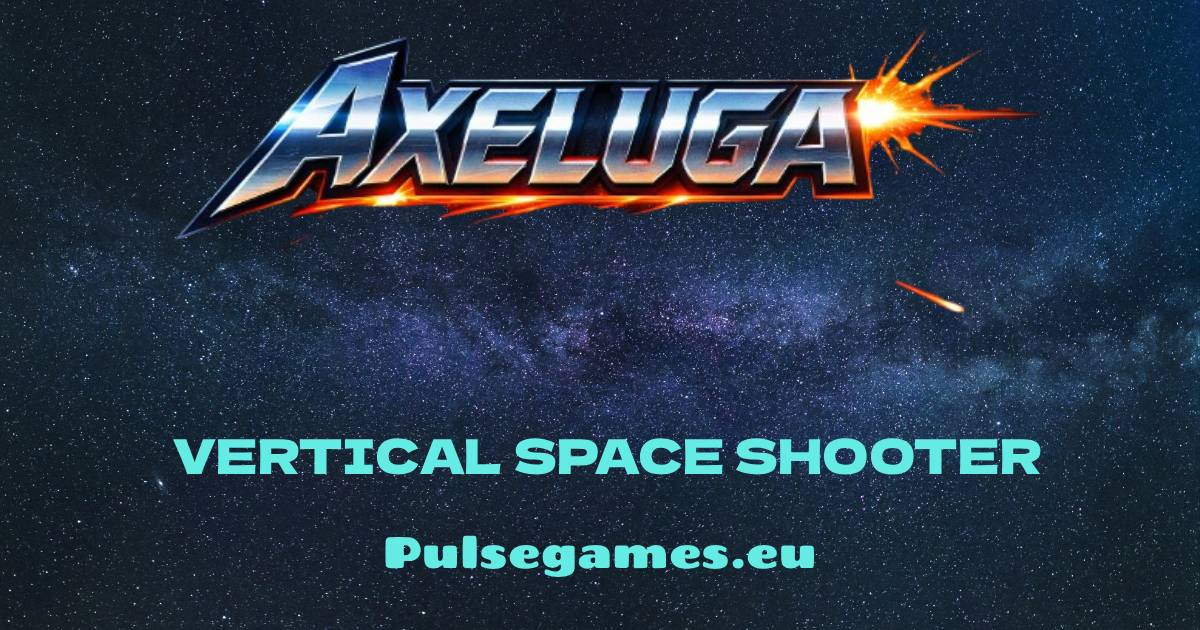
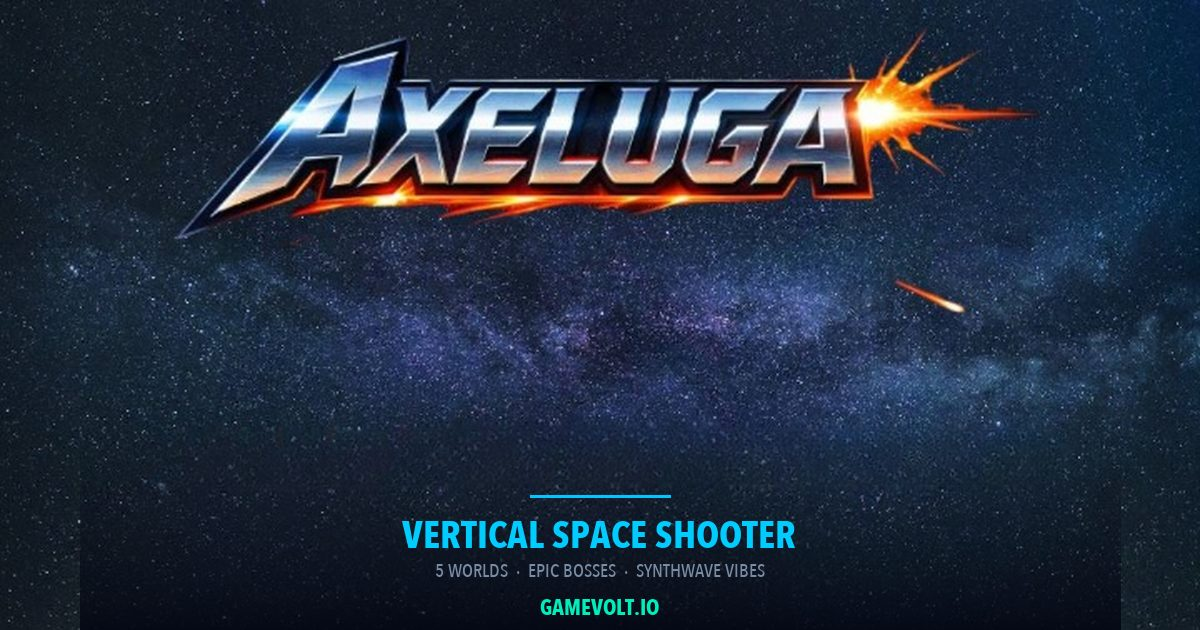
Update Axeluga OG image and meta tags, misc portal updates
- Axeluga og-image.jpg: resized to 1200x630, added gradient + tagline + GAMEVOLT.IO branding (139KB, was 506KB)
- Updated og:image, twitter:image, schema.org meta tags to use new og-image.jpg
- Portal OG image, HoverDash, and profile page updates

diff --git a/hoverdash/index.html b/hoverdash/index.html
@@ -162,20 +162,22 @@
   .trophy-card.unlocked.bronze{border-color:#cd7f3266;background:#cd7f3210}
   .trophy-card.unlocked.silver{border-color:#c0c0c066;background:#c0c0c010}
   .trophy-card.unlocked.gold{border-color:#ffd70066;background:#ffd70010}
+  .trophy-card.unlocked.platinum{border-color:#b4ffff66;background:#b4ffff0a}
   .trophy-card.locked{opacity:.45;filter:grayscale(.7)}
   .trophy-icon{font-size:26px;margin-bottom:4px}
   .trophy-name{font-size:10px;font-weight:700;color:#fff;letter-spacing:1px;margin-bottom:2px}
   .trophy-desc{font-size:9px;color:#889;line-height:1.3}
   .trophy-tier{font-size:9px;font-weight:700;letter-spacing:2px;text-transform:uppercase;margin-bottom:4px}
-  .trophy-tier.bronze{color:#cd7f32}.trophy-tier.silver{color:#c0c0c0}.trophy-tier.gold{color:#ffd700}
+  .trophy-tier.bronze{color:#cd7f32}.trophy-tier.silver{color:#c0c0c0}.trophy-tier.gold{color:#ffd700}.trophy-tier.platinum{color:#b4ffff}
   .trophy-progress{width:100%;height:3px;background:#ffffff0a;border-radius:2px;margin-top:6px;overflow:hidden}
   .trophy-pbar{height:100%;border-radius:2px;transition:width .4s ease}
-  .trophy-pbar.bronze{background:#cd7f32}.trophy-pbar.silver{background:#c0c0c0}.trophy-pbar.gold{background:#ffd700}
+  .trophy-pbar.bronze{background:#cd7f32}.trophy-pbar.silver{background:#c0c0c0}.trophy-pbar.gold{background:#ffd700}.trophy-pbar.platinum{background:linear-gradient(90deg,#00eaff,#ff00ff)}
   .trophy-check{color:#44ff88;font-size:14px;position:absolute;top:4px;right:6px}
   .trophy-tier-header{grid-column:1/-1;font-size:11px;font-weight:700;letter-spacing:4px;text-transform:uppercase;padding:10px 2px 5px;border-bottom:1px solid;margin-bottom:2px}
   .trophy-tier-header.bronze{color:#cd7f32;border-color:#cd7f3244}
   .trophy-tier-header.silver{color:#c0c0c0;border-color:#c0c0c044}
   .trophy-tier-header.gold{color:#ffd700;border-color:#ffd70044}
+  .trophy-tier-header.platinum{color:#b4ffff;border-color:#b4ffff44}
   .trophy-tier-header:first-child{padding-top:2px}
   /* ACHIEVEMENT TOAST */
   #achievement-toast{position:fixed;bottom:-80px;left:50%;transform:translateX(-50%);display:flex;align-items:center;gap:12px;background:#0a0a18ee;border:1px solid #ffd70066;border-radius:8px;padding:10px 20px;z-index:30;transition:bottom .5s cubic-bezier(.34,1.56,.64,1);box-shadow:0 0 30px #ffd70033;pointer-events:none}
@@ -404,7 +406,7 @@ let curZone=0,zoneTimer=0;const ZONE_DUR=18;
 // ACHIEVEMENTS
 // ═══════════════════════════════════════════════════
 const ACHIEVEMENTS=[
-  // BRONZE (easy — first few sessions)
+  // BRONZE (15 — easy, first few sessions + cumulative)
   {id:'first_flight',name:'First Flight',desc:'Play your first game',tier:'bronze',icon:'\uD83D\uDEEB',check:'lifetime',stat:'totalGames',target:1},
   {id:'getting_warmed_up',name:'Getting Warmed Up',desc:'Play 10 games',tier:'bronze',icon:'\uD83D\uDD25',check:'lifetime',stat:'totalGames',target:10},
   {id:'hundred_club',name:'100 Club',desc:'Reach 100 meters',tier:'bronze',icon:'\uD83C\uDFC3',check:'endgame',stat:'meters',target:100},
@@ -415,32 +417,30 @@ const ACHIEVEMENTS=[
   {id:'wave_rider',name:'Wave Rider',desc:'Clear Wave 3',tier:'bronze',icon:'\uD83C\uDF0A',check:'instant',stat:'waveNum',target:3},
   {id:'close_call',name:'Close Call',desc:'Get 3 Near Misses in one game',tier:'bronze',icon:'\uD83D\uDE2C',check:'endgame',stat:'pgNearMisses',target:3},
   {id:'pad_surfer',name:'Pad Surfer',desc:'Hit 3 Boost Pads in one game',tier:'bronze',icon:'\uD83C\uDFC4',check:'endgame',stat:'pgBoostPadsHit',target:3},
-  // SILVER (marathon — dedication over time)
+  {id:'shield_wall',name:'Shield Wall',desc:'Pick up 100 Shields total',tier:'bronze',icon:'\uD83E\uDDF1',check:'lifetime',stat:'totalShields',target:100},
+  {id:'magnet_master',name:'Magnet Master',desc:'Pick up 100 Magnets total',tier:'bronze',icon:'\uD83E\uDDF2',check:'lifetime',stat:'totalMagnets',target:100},
+  {id:'boost_junkie',name:'Boost Junkie',desc:'Pick up 100 Boosts total',tier:'bronze',icon:'\uD83D\uDD25',check:'lifetime',stat:'totalBoosts',target:100},
+  {id:'ramp_rat',name:'Ramp Rat',desc:'Ride 200 ramps total',tier:'bronze',icon:'\uD83D\uDEF9',check:'lifetime',stat:'totalRamps',target:200},
+  {id:'wave_5',name:'Wave 5',desc:'Clear Wave 7',tier:'bronze',icon:'\uD83C\uDF0A',check:'instant',stat:'waveNum',target:7},
+  // SILVER (10 — dedication + moderate skill)
   {id:'veteran_pilot',name:'Veteran Pilot',desc:'Play 100 games',tier:'silver',icon:'\u2B50',check:'lifetime',stat:'totalGames',target:100},
   {id:'addicted',name:'Addicted',desc:'Play 500 games',tier:'silver',icon:'\uD83C\uDFAE',check:'lifetime',stat:'totalGames',target:500},
   {id:'one_k_runner',name:'1K Runner',desc:'Reach 2,000 meters',tier:'silver',icon:'\uD83D\uDE80',check:'endgame',stat:'meters',target:2000},
   {id:'treasure_hunter',name:'Treasure Hunter',desc:'Collect 1,000 coins in one game',tier:'silver',icon:'\uD83D\uDCB0',check:'endgame',stat:'coinScore',target:1000},
   {id:'coin_hoarder',name:'Coin Hoarder',desc:'Collect 25,000 coins total',tier:'silver',icon:'\uD83C\uDFE6',check:'lifetime',stat:'totalCoins',target:25000},
-  {id:'shield_wall',name:'Shield Wall',desc:'Pick up 100 Shields total',tier:'silver',icon:'\uD83E\uDDF1',check:'lifetime',stat:'totalShields',target:100},
-  {id:'magnet_master',name:'Magnet Master',desc:'Pick up 100 Magnets total',tier:'silver',icon:'\uD83E\uDDF2',check:'lifetime',stat:'totalMagnets',target:100},
-  {id:'boost_junkie',name:'Boost Junkie',desc:'Pick up 100 Boosts total',tier:'silver',icon:'\uD83D\uDD25',check:'lifetime',stat:'totalBoosts',target:100},
-  {id:'ramp_rat',name:'Ramp Rat',desc:'Ride 200 ramps total',tier:'silver',icon:'\uD83D\uDEF9',check:'lifetime',stat:'totalRamps',target:200},
-  {id:'wave_5',name:'Wave 5',desc:'Clear Wave 7',tier:'silver',icon:'\uD83C\uDF0A',check:'instant',stat:'waveNum',target:7},
-  // GOLD (hard — require serious skill)
+  {id:'near_miss_king',name:'Near Miss King',desc:'20 near misses in one game',tier:'silver',icon:'\uD83D\uDE0E',check:'endgame',stat:'pgNearMisses',target:20},
+  {id:'spin_doctor',name:'Spin Doctor',desc:'30 barrel rolls in one game',tier:'silver',icon:'\uD83C\uDF00',check:'endgame',stat:'pgBarrelRolls',target:30},
+  {id:'speed_demon',name:'Speed Demon',desc:'Reach max speed',tier:'silver',icon:'\uD83C\uDFCE\uFE0F',check:'instant',stat:'spd',target:110},
+  {id:'bulldozer',name:'Bulldozer',desc:'Smash 15 obstacles with Boost',tier:'silver',icon:'\uD83D\uDE9C',check:'endgame',stat:'pgBoostSmashes',target:15},
+  {id:'laser_dancer',name:'Laser Dancer',desc:'Dodge 10 sweep lasers in one game',tier:'silver',icon:'\uD83D\uDC83',check:'endgame',stat:'pgSweepDodges',target:10},
+  // GOLD (5 — require serious skill)
   {id:'untouchable',name:'Untouchable',desc:'Reach 1,000m without a shield hit',tier:'gold',icon:'\uD83D\uDC7B',check:'endgame',stat:'pgMaxMetersNoShield',target:1000},
   {id:'five_k_legend',name:'5K Legend',desc:'Reach 5,000 meters',tier:'gold',icon:'\uD83C\uDFC6',check:'endgame',stat:'meters',target:5000},
-  {id:'near_miss_king',name:'Near Miss King',desc:'20 near misses in one game',tier:'gold',icon:'\uD83D\uDE0E',check:'endgame',stat:'pgNearMisses',target:20},
   {id:'combo_demon',name:'Combo Demon',desc:'Reach x10 combo',tier:'gold',icon:'\uD83D\uDD17',check:'instant',stat:'pgMaxCombo',target:10},
-  {id:'spin_doctor',name:'Spin Doctor',desc:'30 barrel rolls in one game',tier:'gold',icon:'\uD83C\uDF00',check:'endgame',stat:'pgBarrelRolls',target:30},
-  {id:'speed_demon',name:'Speed Demon',desc:'Reach max speed',tier:'gold',icon:'\uD83C\uDFCE\uFE0F',check:'instant',stat:'spd',target:110},
-  {id:'bulldozer',name:'Bulldozer',desc:'Smash 15 obstacles with Boost',tier:'gold',icon:'\uD83D\uDE9C',check:'endgame',stat:'pgBoostSmashes',target:15},
   {id:'wave_10',name:'Wave 10',desc:'Clear Wave 12',tier:'gold',icon:'\u26A1',check:'instant',stat:'waveNum',target:12},
   {id:'score_crusher',name:'Score Crusher',desc:'Reach 25,000 total score',tier:'gold',icon:'\uD83D\uDCAF',check:'endgame',stat:'finalScore',target:25000},
-  {id:'laser_dancer',name:'Laser Dancer',desc:'Dodge 10 sweep lasers in one game',tier:'gold',icon:'\uD83D\uDC83',check:'endgame',stat:'pgSweepDodges',target:10},
-  // DAILY CHALLENGE trophies
-  {id:'daily_bronze',name:'Daily Devotee',desc:'Complete 10 Daily Challenges',tier:'bronze',icon:'\uD83D\uDCC5',check:'lifetime',stat:'dailyCount',target:10},
-  {id:'daily_silver',name:'Daily Regular',desc:'Complete 25 Daily Challenges',tier:'silver',icon:'\uD83D\uDDD3\uFE0F',check:'lifetime',stat:'dailyCount',target:25},
-  {id:'daily_gold',name:'Daily Legend',desc:'Complete 50 Daily Challenges',tier:'gold',icon:'\uD83C\uDF1F',check:'lifetime',stat:'dailyCount',target:50},
+  // PLATINUM (1 — completionist)
+  {id:'hover_master',name:'Hover Master',desc:'Unlock all 30 other trophies',tier:'platinum',icon:'\uD83D\uDC51',check:'none',stat:'',target:0},
 ];
 
 // Achievement data persistence
@@ -2257,6 +2257,12 @@ function tryUnlock(ach){
   showAchToast(ach);playAchSFX();
   gvPost('achievement',{id:ach.id,name:ach.name});
   if(window.GameVolt) GameVolt.achievements.unlock(ach.id);
+  // Check platinum
+  if(ach.id!=='hover_master'){
+    let count=0;
+    for(const k in hdData.unlocked){if(k!=='hover_master'&&hdData.unlocked[k]>0) count++;}
+    if(count>=30){const p=ACHIEVEMENTS.find(a=>a.id==='hover_master');if(p) tryUnlock(p);}
+  }
   return true;
 }
 
@@ -2516,7 +2522,7 @@ document.querySelectorAll('.tab-btn').forEach(b=>b.addEventListener('click',()=>
 function renderTrophyGrid(){
   const grid=document.getElementById('trophy-grid');grid.innerHTML='';
   let n=0;
-  for(const tier of ['bronze','silver','gold']){
+  for(const tier of ['bronze','silver','gold','platinum']){
     const h=document.createElement('div');
     h.className='trophy-tier-header '+tier;
     h.textContent=tier.toUpperCase();
@@ -2524,8 +2530,9 @@ function renderTrophyGrid(){
     for(const a of ACHIEVEMENTS){
       if(a.tier!==tier) continue;
       const ok=!!hdData.unlocked[a.id];if(ok) n++;
-      const cur=ok?a.target:Math.min(getStatValue(a.stat),a.target);
-      const pct=Math.min(100,Math.round(cur/a.target*100));
+      let cur,pct;
+      if(a.id==='hover_master'){let uc=0;for(const k in hdData.unlocked){if(k!=='hover_master'&&hdData.unlocked[k]>0) uc++;}cur=ok?30:uc;pct=Math.min(100,Math.round(cur/30*100));}
+      else{cur=ok?a.target:Math.min(getStatValue(a.stat),a.target);pct=a.target>0?Math.min(100,Math.round(cur/a.target*100)):0;}
       const c=document.createElement('div');
       c.className='trophy-card '+tier+(ok?' unlocked':' locked');
       c.innerHTML='<div class="trophy-icon">'+(ok?a.icon:'\uD83D\uDD12')+'</div>'

diff --git a/profile/index.html b/profile/index.html
@@ -454,14 +454,41 @@
         }
 
         .trophy-game-section {
-            margin-bottom: 28px;
+            margin-bottom: 16px;
+            border: 1px solid var(--border-subtle);
+            border-radius: var(--radius-md);
+            overflow: hidden;
         }
 
         .trophy-game-header {
             display: flex;
             justify-content: space-between;
             align-items: center;
-            margin-bottom: 8px;
+            padding: 14px 16px;
+            cursor: pointer;
+            background: var(--bg-glass);
+            user-select: none;
+            transition: background 0.2s;
+        }
+
+        .trophy-game-header:hover {
+            background: var(--bg-card-hover);
+        }
+
+        .trophy-game-left {
+            display: flex;
+            align-items: center;
+            gap: 10px;
+        }
+
+        .trophy-game-chevron {
+            font-size: 0.7rem;
+            color: var(--text-muted);
+            transition: transform 0.25s ease;
+        }
+
+        .trophy-game-section.open .trophy-game-chevron {
+            transform: rotate(90deg);
         }
 
         .trophy-game-title {
@@ -472,6 +499,21 @@
         .trophy-game-count {
             font-size: 0.85rem;
             color: var(--text-muted);
+            flex-shrink: 0;
+        }
+
+        .trophy-game-body {
+            max-height: 0;
+            overflow: hidden;
+            transition: max-height 0.35s ease;
+        }
+
+        .trophy-game-section.open .trophy-game-body {
+            max-height: 5000px;
+        }
+
+        .trophy-game-inner {
+            padding: 0 16px 16px;
         }
 
         .trophy-grid {
@@ -795,29 +837,27 @@
                 { id:'hoverdash-wave_rider', icon:'🌊', name:'Wave Rider', desc:'Clear Wave 3', tier:'bronze' },
                 { id:'hoverdash-close_call', icon:'😬', name:'Close Call', desc:'Get 3 Near Misses in one game', tier:'bronze' },
                 { id:'hoverdash-pad_surfer', icon:'🏄', name:'Pad Surfer', desc:'Hit 3 Boost Pads in one game', tier:'bronze' },
+                { id:'hoverdash-shield_wall', icon:'🧱', name:'Shield Wall', desc:'Pick up 100 Shields total', tier:'bronze' },
+                { id:'hoverdash-magnet_master', icon:'🧲', name:'Magnet Master', desc:'Pick up 100 Magnets total', tier:'bronze' },
+                { id:'hoverdash-boost_junkie', icon:'🔥', name:'Boost Junkie', desc:'Pick up 100 Boosts total', tier:'bronze' },
+                { id:'hoverdash-ramp_rat', icon:'🛹', name:'Ramp Rat', desc:'Ride 200 ramps total', tier:'bronze' },
+                { id:'hoverdash-wave_5', icon:'🌊', name:'Wave 5', desc:'Clear Wave 7', tier:'bronze' },
                 { id:'hoverdash-veteran_pilot', icon:'⭐', name:'Veteran Pilot', desc:'Play 100 games', tier:'silver' },
                 { id:'hoverdash-addicted', icon:'🎮', name:'Addicted', desc:'Play 500 games', tier:'silver' },
                 { id:'hoverdash-one_k_runner', icon:'🚀', name:'1K Runner', desc:'Reach 2,000 meters', tier:'silver' },
                 { id:'hoverdash-treasure_hunter', icon:'💰', name:'Treasure Hunter', desc:'Collect 1,000 coins in one game', tier:'silver' },
                 { id:'hoverdash-coin_hoarder', icon:'🏠', name:'Coin Hoarder', desc:'Collect 25,000 coins total', tier:'silver' },
-                { id:'hoverdash-shield_wall', icon:'🧱', name:'Shield Wall', desc:'Pick up 100 Shields total', tier:'silver' },
-                { id:'hoverdash-magnet_master', icon:'🧲', name:'Magnet Master', desc:'Pick up 100 Magnets total', tier:'silver' },
-                { id:'hoverdash-boost_junkie', icon:'🔥', name:'Boost Junkie', desc:'Pick up 100 Boosts total', tier:'silver' },
-                { id:'hoverdash-ramp_rat', icon:'🛹', name:'Ramp Rat', desc:'Ride 200 ramps total', tier:'silver' },
-                { id:'hoverdash-wave_5', icon:'🌊', name:'Wave 5', desc:'Clear Wave 7', tier:'silver' },
+                { id:'hoverdash-near_miss_king', icon:'😎', name:'Near Miss King', desc:'20 near misses in one game', tier:'silver' },
+                { id:'hoverdash-spin_doctor', icon:'🌀', name:'Spin Doctor', desc:'30 barrel rolls in one game', tier:'silver' },
+                { id:'hoverdash-speed_demon', icon:'🏎', name:'Speed Demon', desc:'Reach max speed', tier:'silver' },
+                { id:'hoverdash-bulldozer', icon:'🚚', name:'Bulldozer', desc:'Smash 15 obstacles with Boost', tier:'silver' },
+                { id:'hoverdash-laser_dancer', icon:'💃', name:'Laser Dancer', desc:'Dodge 10 sweep lasers in one game', tier:'silver' },
                 { id:'hoverdash-untouchable', icon:'👻', name:'Untouchable', desc:'Reach 1,000m without a shield hit', tier:'gold' },
                 { id:'hoverdash-five_k_legend', icon:'🏆', name:'5K Legend', desc:'Reach 5,000 meters', tier:'gold' },
-                { id:'hoverdash-near_miss_king', icon:'😎', name:'Near Miss King', desc:'20 near misses in one game', tier:'gold' },
                 { id:'hoverdash-combo_demon', icon:'🔗', name:'Combo Demon', desc:'Reach x10 combo', tier:'gold' },
-                { id:'hoverdash-spin_doctor', icon:'🌀', name:'Spin Doctor', desc:'30 barrel rolls in one game', tier:'gold' },
-                { id:'hoverdash-speed_demon', icon:'🏎', name:'Speed Demon', desc:'Reach max speed', tier:'gold' },
-                { id:'hoverdash-bulldozer', icon:'🚚', name:'Bulldozer', desc:'Smash 15 obstacles with Boost', tier:'gold' },
                 { id:'hoverdash-wave_10', icon:'⚡', name:'Wave 10', desc:'Clear Wave 12', tier:'gold' },
                 { id:'hoverdash-score_crusher', icon:'💯', name:'Score Crusher', desc:'Reach 25,000 total score', tier:'gold' },
-                { id:'hoverdash-laser_dancer', icon:'💃', name:'Laser Dancer', desc:'Dodge 10 sweep lasers in one game', tier:'gold' },
-                { id:'hoverdash-daily_bronze', icon:'📅', name:'Daily Devotee', desc:'Complete 10 Daily Challenges', tier:'bronze' },
-                { id:'hoverdash-daily_silver', icon:'📋', name:'Daily Regular', desc:'Complete 25 Daily Challenges', tier:'silver' },
-                { id:'hoverdash-daily_gold', icon:'🌟', name:'Daily Legend', desc:'Complete 50 Daily Challenges', tier:'gold' }
+                { id:'hoverdash-hover_master', icon:'👑', name:'Hover Master', desc:'Unlock all 30 other trophies', tier:'platinum' }
             ],
             connect4: [
                 // Bronze (15)
@@ -1056,7 +1096,7 @@
             html += '<span class="ach-label">' + totalUnlocked + ' of ' + totalAll + ' trophies unlocked (' + pct + '%)</span>';
             html += '</div>';
 
-            // Per-game sections
+            // Per-game sections (collapsible)
             for (var gi = 0; gi < catalogGames.length; gi++) {
                 var gid = catalogGames[gi];
                 var trophies = TROPHY_CATALOG[gid];
@@ -1065,14 +1105,20 @@
                     if (unlockedSet[trophies[t].id]) gameUnlocked++;
                 }
 
-                html += '<div class="trophy-game-section">';
-                html += '<div class="trophy-game-header">';
+                var gamePct = trophies.length > 0 ? Math.round((gameUnlocked / trophies.length) * 100) : 0;
+
+                html += '<div class="trophy-game-section' + (gi === 0 ? ' open' : '') + '" data-game="' + gid + '">';
+                html += '<div class="trophy-game-header" onclick="this.parentElement.classList.toggle(\'open\')">';
+                html += '<div class="trophy-game-left">';
+                html += '<span class="trophy-game-chevron">&#9654;</span>';
                 html += '<span class="trophy-game-title">' + (GAME_NAMES[gid] || gid) + '</span>';
-                html += '<span class="trophy-game-count">' + gameUnlocked + ' / ' + trophies.length + '</span>';
+                html += '</div>';
+                html += '<span class="trophy-game-count">' + gameUnlocked + ' / ' + trophies.length + ' (' + gamePct + '%)</span>';
                 html += '</div>';
 
+                html += '<div class="trophy-game-body"><div class="trophy-game-inner">';
+
                 // Progress bar
-                var gamePct = trophies.length > 0 ? Math.round((gameUnlocked / trophies.length) * 100) : 0;
                 html += '<div class="ach-bar-wrap" style="margin-bottom:12px"><div class="ach-bar" style="width:' + gamePct + '%"></div></div>';
 
                 // Trophy grid
@@ -1091,7 +1137,7 @@
                     html += '<span class="trophy-tier" style="background:' + tierColor + '">' + tr.tier + '</span>';
                     html += '</div>';
                 }
-                html += '</div></div>';
+                html += '</div></div></div></div>';
             }
 
             container.innerHTML = html;

diff --git a/axeluga/index.html b/axeluga/index.html
@@ -38,7 +38,7 @@
     <meta property="og:url" content="https://gamevolt.io/axeluga/">
     <meta property="og:title" content="Axeluga – Free Space Shooter Game Online">
     <meta property="og:description" content="Battle through 5 worlds, defeat epic bosses and save the galaxy. Free browser shoot-em-up with gamepad support.">
-    <meta property="og:image" content="https://gamevolt.io/assets/thumbnails/axeluga.webp">
+    <meta property="og:image" content="https://gamevolt.io/axeluga/og-image.jpg">
     <meta property="og:image:width" content="1200">
     <meta property="og:image:height" content="630">
     <meta property="og:site_name" content="GameVolt">
@@ -47,7 +47,7 @@
     <meta name="twitter:card" content="summary_large_image">
     <meta name="twitter:title" content="Axeluga – Free Space Shooter Game Online">
     <meta name="twitter:description" content="Battle through 5 worlds, defeat epic bosses and save the galaxy. Free browser shoot-em-up with gamepad support.">
-    <meta name="twitter:image" content="https://gamevolt.io/assets/thumbnails/axeluga.webp">
+    <meta name="twitter:image" content="https://gamevolt.io/axeluga/og-image.jpg">
 
     <!-- Structured Data -->
     <script type="application/ld+json">
@@ -57,7 +57,7 @@
         "name": "Axeluga",
         "description": "Vertical space shooter with 5 worlds, epic boss battles, power-ups and gamepad support. Play free in your browser.",
         "url": "https://gamevolt.io/axeluga/",
-        "image": "https://gamevolt.io/assets/thumbnails/axeluga.webp",
+        "image": "https://gamevolt.io/axeluga/og-image.jpg",
         "genre": ["Shooter", "Arcade", "Action"],
         "gamePlatform": "Web Browser",
         "applicationCategory": "Game",

diff --git a/GAMEVOLT.md b/GAMEVOLT.md
@@ -701,10 +701,10 @@ gvPost('achievement', { id: 'trophy_id', name: 'Name', tier: 'bronze' });
 - `GameVolt.init()` is required — without it, Supabase never connects
 - SDK script must load BEFORE game script (no `defer`, no placement after game)
 - Method is `registerMigration`, not `setup`
-- Achievements use RPC function `unlock_achievement()` — must exist in database (see schema.sql)
 - Use `maybeSingle()` instead of `single()` when a row may not exist (avoids 406)
 - Trophy IDs should be simple slugs: `first_win`, not `connect4-first_win` (SDK adds prefix)
 - Standard tier system: 15 bronze, 10 silver, 5 gold, 1 platinum = 31 total
+- `user_achievements` must NOT have a foreign key to `achievement_defs` — trophies are defined client-side, not in the DB. A leftover FK constraint causes 409/23503 errors on unlock. If you see "foreign key violation" (error 23503), run: `ALTER TABLE user_achievements DROP CONSTRAINT IF EXISTS user_achievements_achievement_id_fkey;`
 
 ### 11. Final Testing
 
